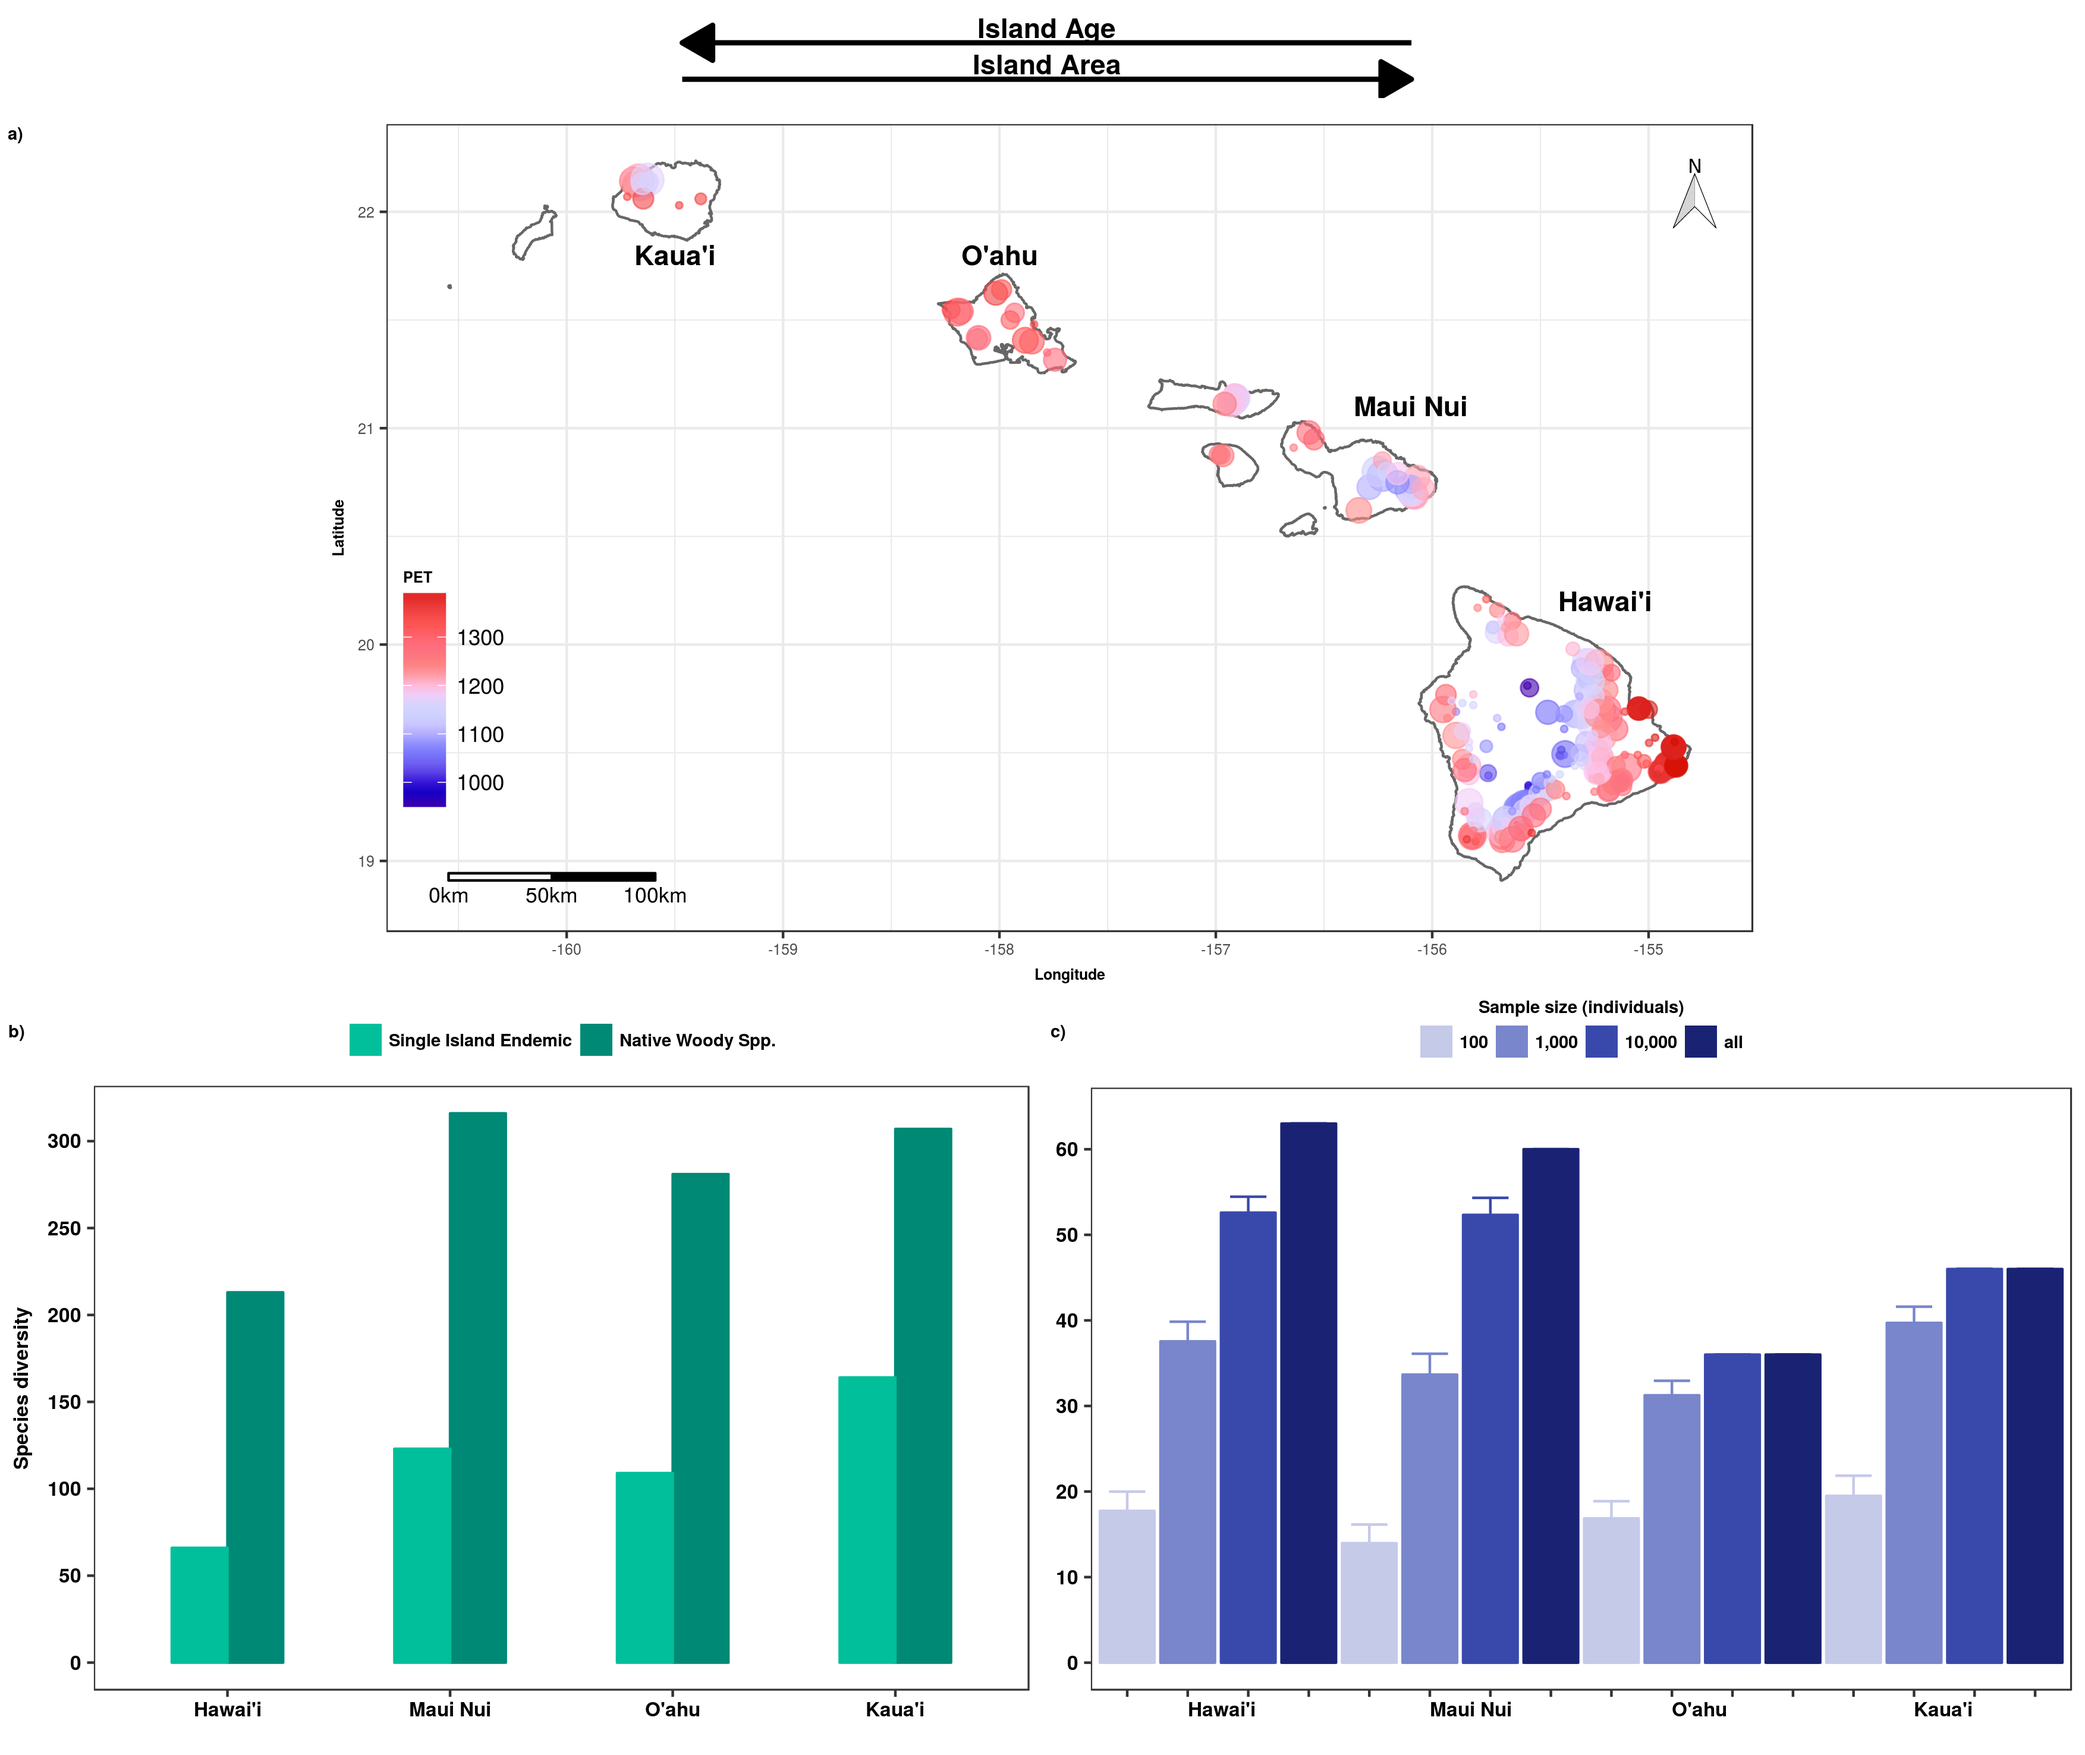
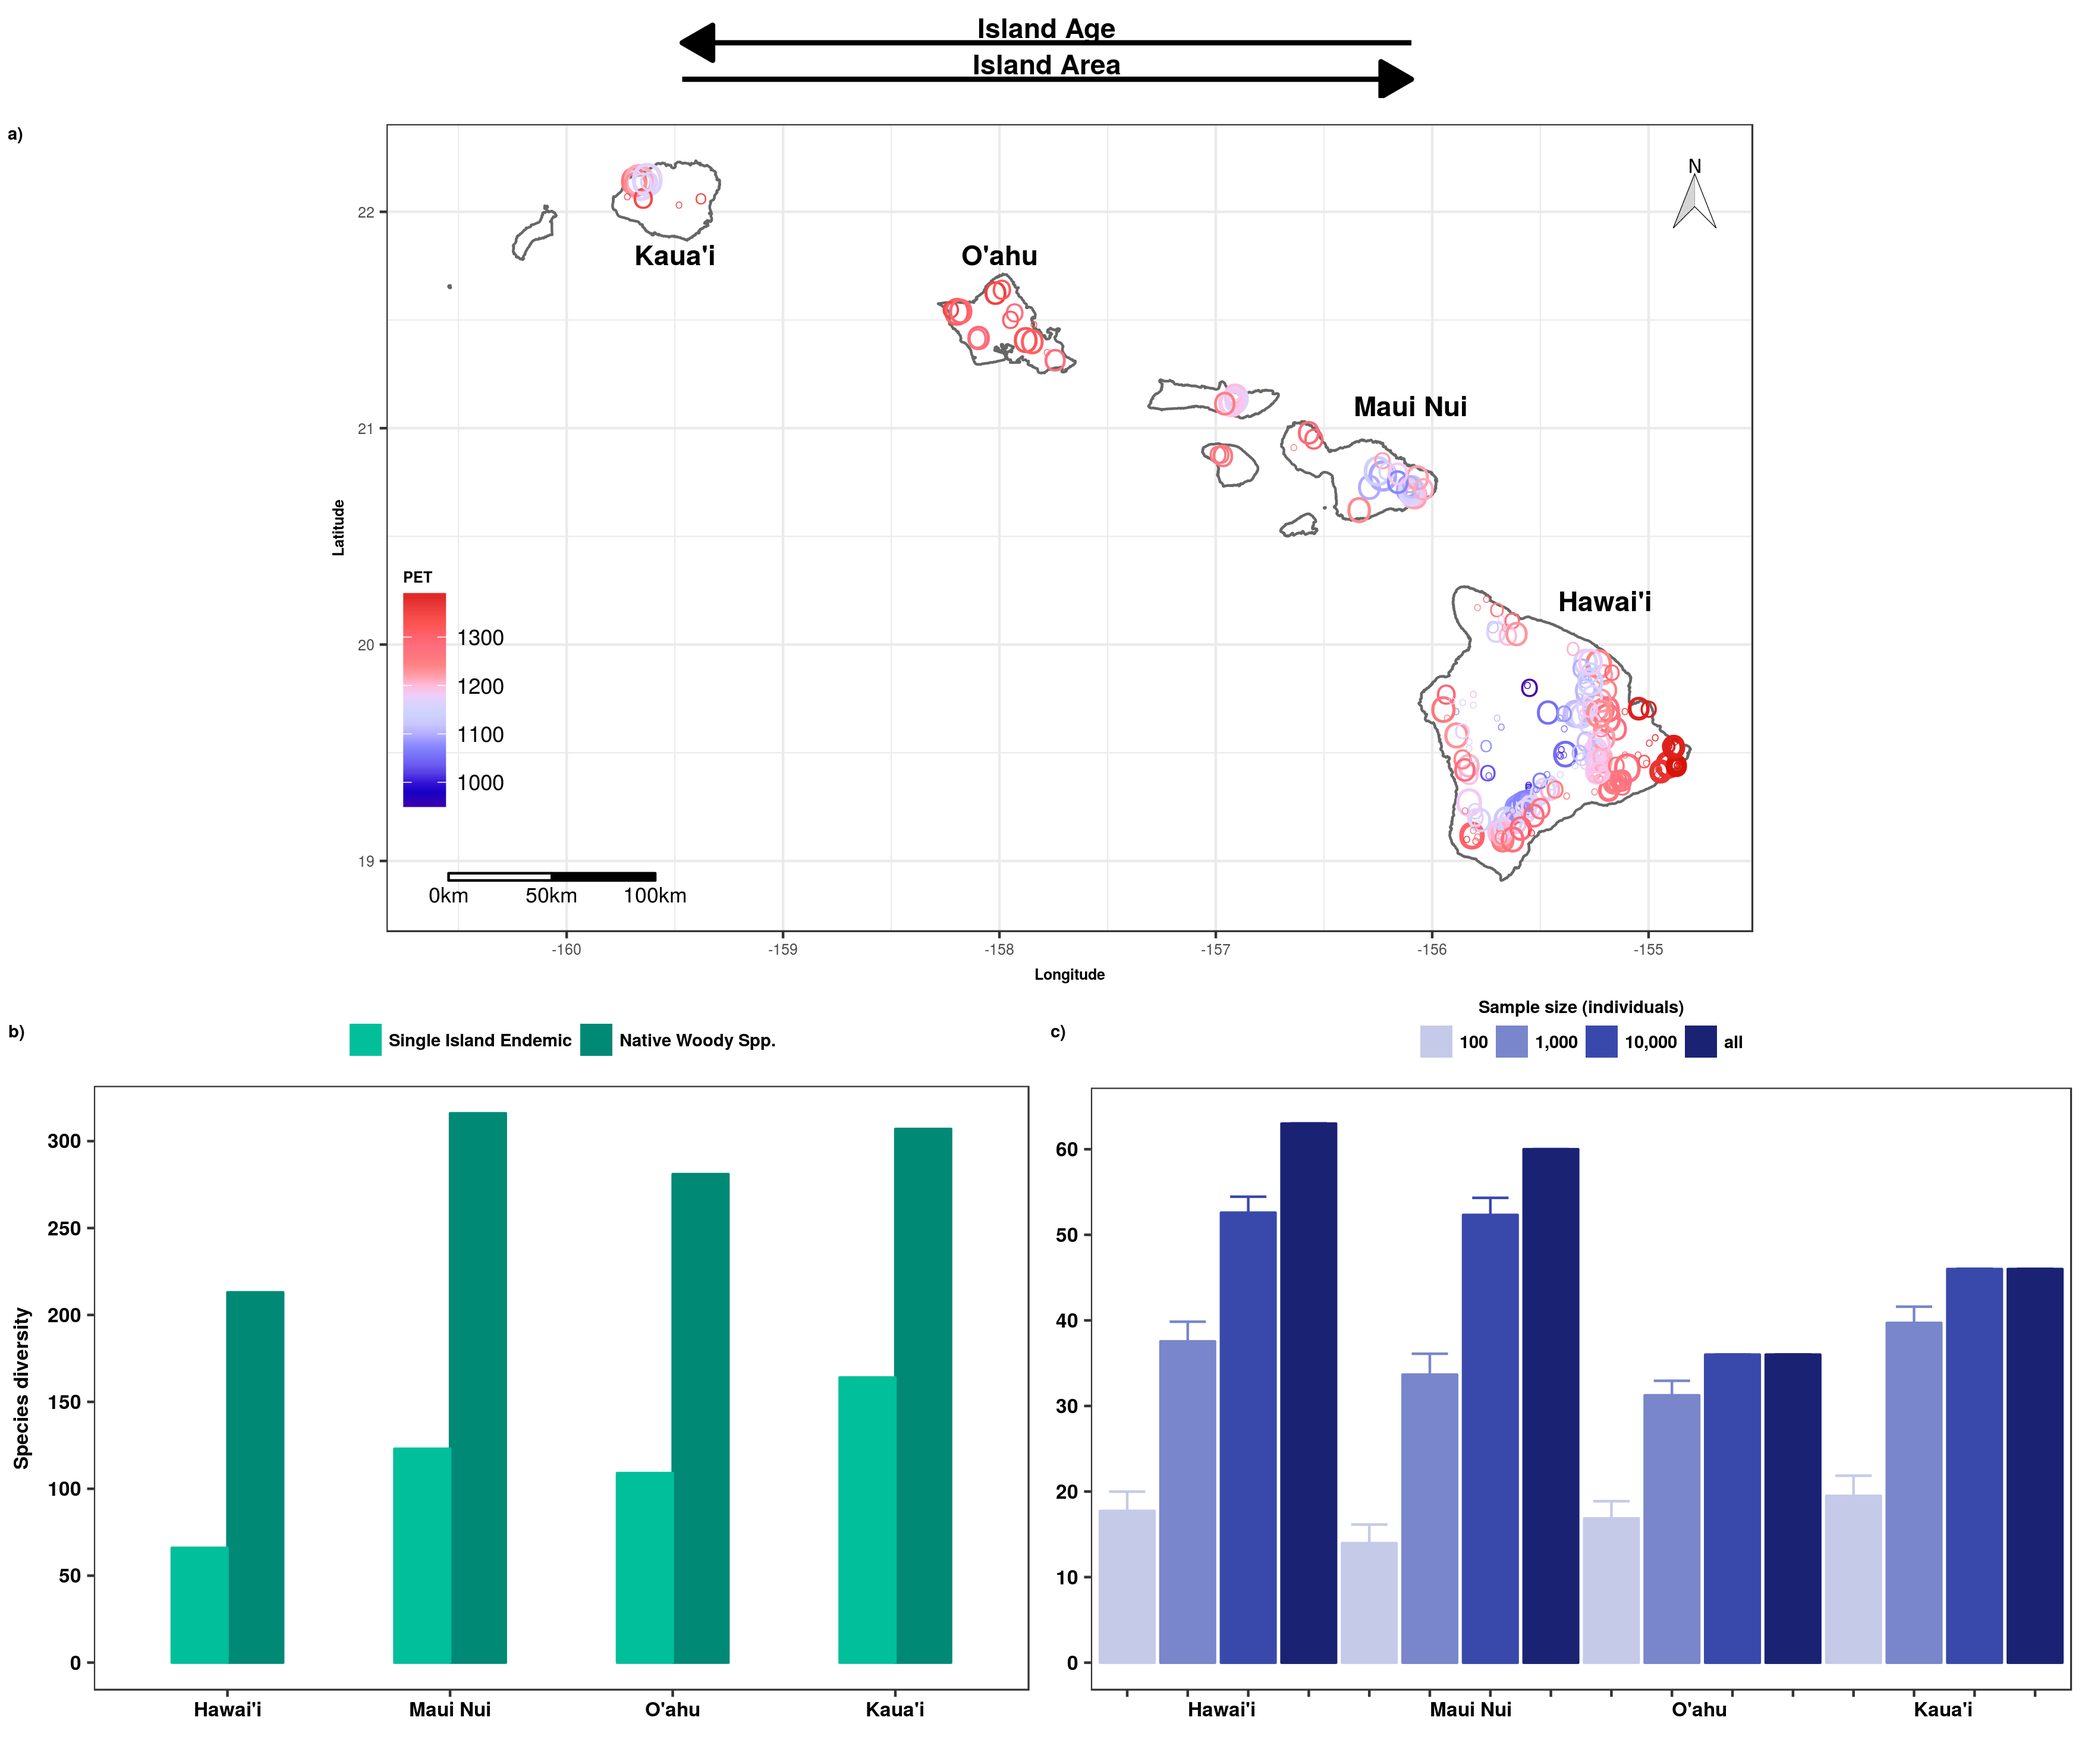
Change shape on map

diff --git a/Hawaii_Diversity_ToDo.md b/Hawaii_Diversity_ToDo.md
@@ -17,7 +17,8 @@ __To-Do__
 - [x] 16) Natives (size class **Big**): SACs using all data (Fig. S4)
 - [x] 17) Map of plot locations across Hawaiian Islands: Fig. S1
 - [x] 18) Adjust species list (PELBAR/MELBAR)
-- [] 19) Integrate map with Fig. 1  (how to color/scale points?)  
-- [] 20) Make table summarizing data per island (N of plots, sampled area, PET, etc.)  
+- [x] 19) Integrate map with Fig. 1  (how to color/scale points?)  
+- [] 20) Make table summarizing data per island (Island age, area, total number of plots, total sampled area, env. conditions)    
+- [] 21) Table for each scenario: mean sampled area, range in PET 
 
 
